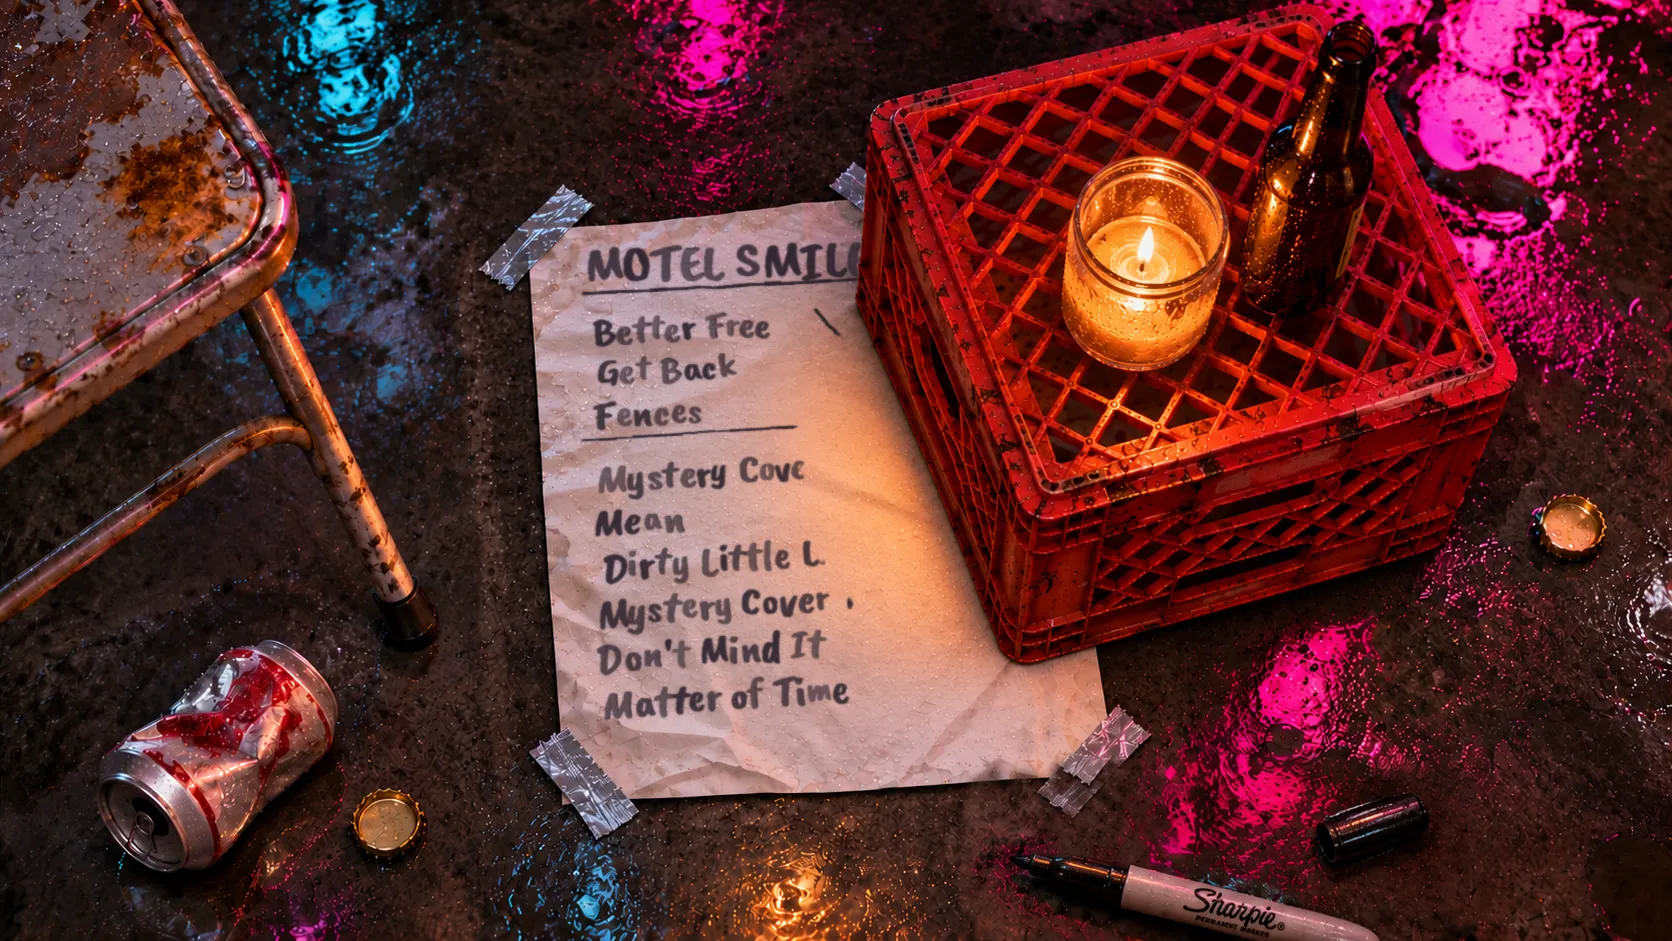
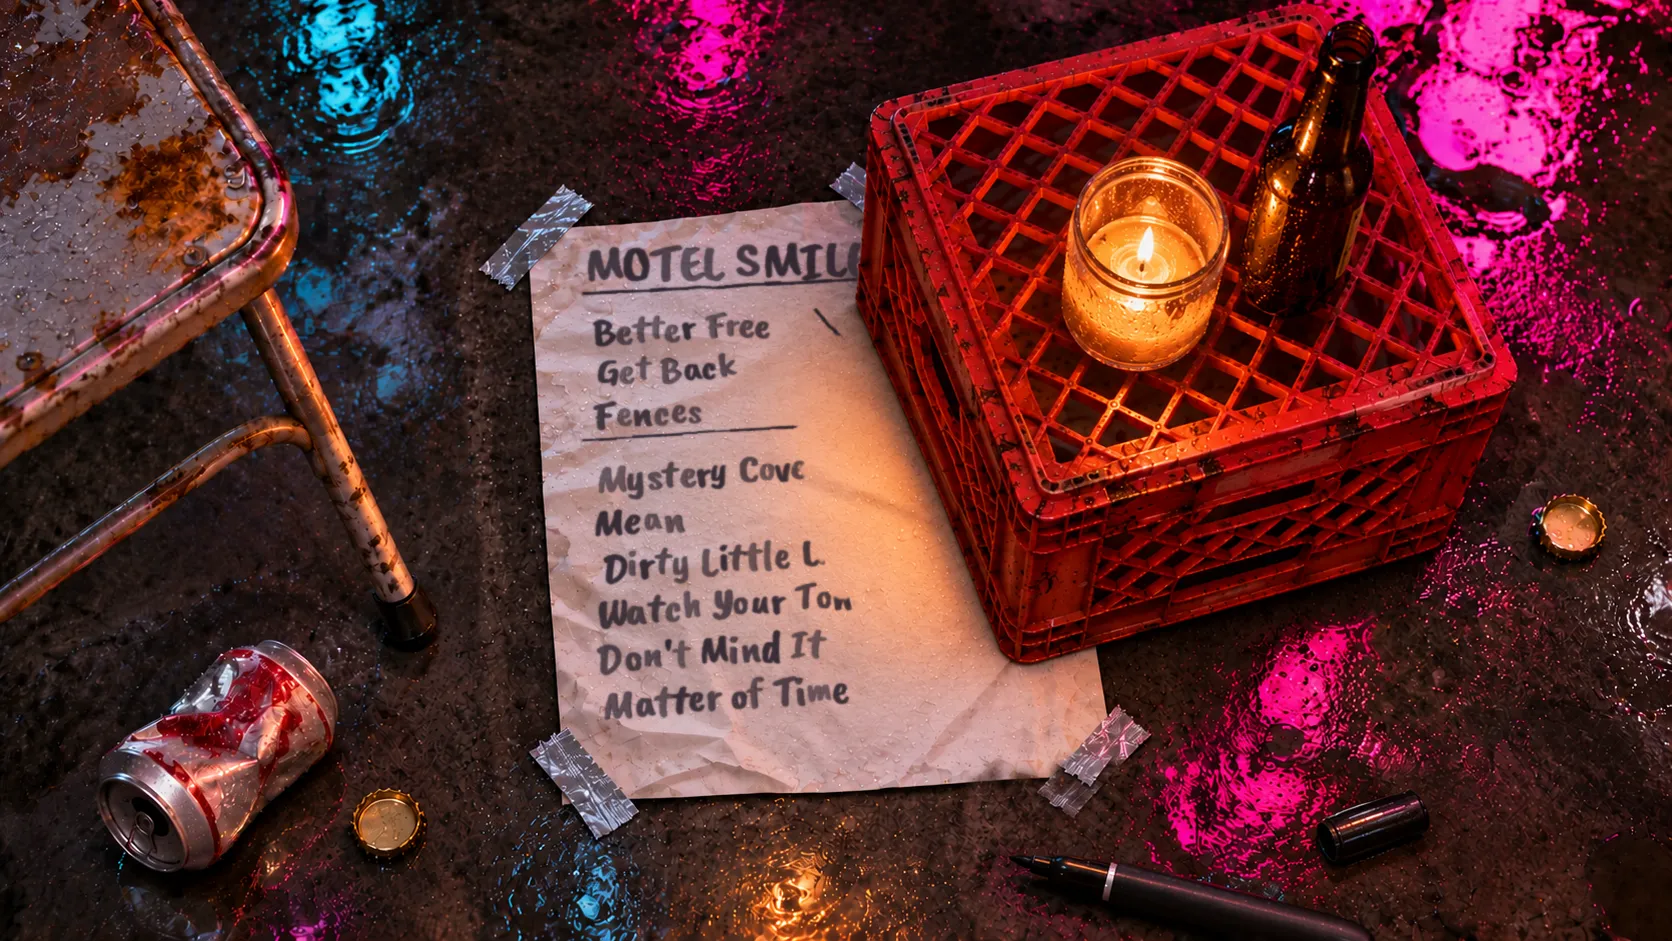
Setlist: Watch Your Tone, unbranded marker; Mystery Cover Tune opens the Request Line fan vote (/api/covers)
Claude-Session: https://claude.ai/code/session_011gssdMsenVXumrh9a32rRB

Changed region(s): [[0.5909, 0.8013, 0.8397, 1.0], [0.3421, 0.6164, 0.5287, 0.678]]

diff --git a/index.html b/index.html
@@ -4532,6 +4532,27 @@ body.ph .sign{font-size:clamp(32px,10vw,46px)!important;margin-top:2px!important
 #sl.s2 .sl-f.f2,#sl.s3 .sl-f.f3,#sl.s3 .sl-f.f2{opacity:1!important}
 #play .sl-curl{position:absolute;left:478px;top:608px;width:148px;height:54px;background:url(img/hang/curl.webp?v=3) 0 0/100% 100%;pointer-events:none;opacity:0;animation:slCurl 7s ease-in-out infinite}
 @keyframes slCurl{0%,55%,100%{opacity:0}65%,85%{opacity:1}}
+#sl .sl-mct{position:absolute;z-index:3;border:0;padding:0;background:transparent;cursor:pointer;border-radius:10px;pointer-events:none;opacity:0;transition:opacity .4s}
+#sl.s3 .sl-mct{pointer-events:auto;opacity:1;animation:mctGlow 2.4s ease-in-out 1s infinite}
+@keyframes mctGlow{0%,100%{box-shadow:0 0 0 0 rgba(70,220,255,0)}50%{box-shadow:0 0 0 2px rgba(70,220,255,.55),0 0 22px rgba(70,220,255,.45)}}
+#sl .sl-mct:hover,#sl .sl-mct:focus-visible{outline:none;box-shadow:0 0 0 2px #46dcff,0 0 26px rgba(70,220,255,.7)}
+#rq{position:absolute;inset:0;z-index:5;display:grid;place-items:center;background:rgba(5,3,10,.72);opacity:0;pointer-events:none;transition:opacity .3s;padding:16px}
+#rq.on{opacity:1;pointer-events:auto}
+#rq .rq-box{width:min(460px,100%);max-height:calc(100% - 20px);overflow:auto;background:linear-gradient(#17101f,#0d0913);border:2px solid #ff3d7f;border-radius:18px;box-shadow:0 0 30px rgba(255,61,127,.45),inset 0 0 18px rgba(255,61,127,.18);padding:18px 18px 16px;color:#fff;transform:translateY(12px) scale(.97);transition:transform .35s}
+#rq.on .rq-box{transform:none}
+#rq h3{margin:0;font:400 30px/1 var(--tube,cursive);color:#fff;text-shadow:0 0 8px #ff3d7f,0 0 18px #ff3d7f;letter-spacing:.02em}
+#rq .rq-sub{margin:6px 0 14px;font:500 12px var(--mono,monospace);letter-spacing:.08em;text-transform:uppercase;color:#46dcff}
+#rq ul{list-style:none;margin:0;padding:0;display:grid;gap:7px}
+#rq li button{position:relative;width:100%;display:flex;align-items:baseline;gap:8px;text-align:left;padding:10px 12px;border-radius:11px;border:1px solid #3a2c44;background:#140e1b;color:#fff;cursor:pointer;overflow:hidden;font:600 15px var(--sans,system-ui)}
+#rq li button i{font-style:normal;font-weight:400;color:#a99bb5;font-size:12.5px;flex:1}
+#rq li button b{font:600 12px var(--mono,monospace);color:#ffb3cf;min-width:2.5em;text-align:right;position:relative}
+#rq li button span{position:relative}
+#rq li button::before{content:"";position:absolute;left:0;top:0;bottom:0;width:var(--p,0%);background:linear-gradient(90deg,rgba(255,61,127,.38),rgba(255,61,127,.12));transition:width .8s cubic-bezier(.2,.7,.2,1)}
+#rq li button.mine{border-color:#46dcff;box-shadow:0 0 12px rgba(70,220,255,.4)}
+#rq li button:disabled{cursor:default}
+#rq li button:not(:disabled):hover{border-color:#ff3d7f}
+#rq .rq-note{min-height:1.3em;margin:12px 0 2px;font:500 13px var(--sans,system-ui);color:#ffd27a;text-align:center}
+#rq .rq-x{position:absolute;top:calc(14px + env(safe-area-inset-top,0px));right:16px;padding:9px 16px;border-radius:999px;border:2px solid var(--cyan,#46dcff);background:rgba(10,6,16,.7);color:#fff;font:600 14px var(--sans,system-ui);cursor:pointer}
 #sl .sl-shade{position:absolute;inset:0;background:radial-gradient(ellipse 70% 70% at 49% 50%,transparent 45%,rgba(4,2,8,.75));pointer-events:none}
 #sl .sl-x{position:absolute;left:16px;top:calc(14px + env(safe-area-inset-top,0px));z-index:2;padding:9px 16px;border-radius:999px;border:2px solid var(--cyan,#46dcff);background:rgba(10,6,16,.7);color:#fff;font:600 14px var(--sans,system-ui);cursor:pointer;box-shadow:0 0 14px rgba(70,220,255,.45)}
 #sl .sl-hint{position:absolute;left:50%;bottom:calc(22px + env(safe-area-inset-bottom,0px));transform:translateX(-50%);z-index:2;color:#fff;font:500 13px var(--mono,monospace);letter-spacing:.08em;opacity:0;transition:opacity .5s .4s;text-shadow:0 1px 6px #000;white-space:nowrap}
@@ -4540,10 +4561,11 @@ body.ph .sign{font-size:clamp(32px,10vw,46px)!important;margin-top:2px!important
 @media (prefers-reduced-motion:reduce){#sl .sl-wrap,#sl .sl-f{transition:none}#play .sl-curl{animation:none}}
 </style>
 <div id="sl" aria-hidden="true" role="dialog" aria-label="The setlist under the crate">
-  <div class="sl-wrap"><img class="sl-f f1" alt="" data-src="img/hang/sl1.webp?v=4" width="1672" height="941"><img class="sl-f f2" alt="" data-src="img/hang/sl2.webp?v=4" width="1672" height="941"><img class="sl-f f3 sl-bg" alt="Tonight's setlist, gaffer-taped to the roof: the Big 3 (Better Free, Get Back, Fences), then Mystery Cover Tune, Mean, Dirty Little Liar, Mystery Cover Tune, Don't Mind It, Matter of Time" data-src="img/hang/sl3.webp?v=4" width="1672" height="941"></div>
+  <div class="sl-wrap"><img class="sl-f f1" alt="" data-src="img/hang/sl1.webp?v=5" width="1672" height="941"><img class="sl-f f2" alt="" data-src="img/hang/sl2.webp?v=5" width="1672" height="941"><img class="sl-f f3 sl-bg" alt="Tonight's setlist, gaffer-taped to the roof: the Big 3 (Better Free, Get Back, Fences), then Mystery Cover Tune, Mean, Dirty Little Liar, Watch Your Tone, Don't Mind It, Matter of Time" data-src="img/hang/sl3.webp?v=5" width="1672" height="941"><button class="sl-mct" type="button" style="left:35.2%;top:45.6%;width:21.8%;height:6.2%" aria-label="Mystery Cover Tune: open the request line"></button></div>
   <div class="sl-shade"></div>
   <button class="sl-x" type="button">✕ Back to the roof</button>
-  <div class="sl-hint">Tonight’s setlist</div>
+  <div class="sl-hint">Tap the Mystery Cover Tune</div>
+  <div id="rq" role="dialog" aria-modal="true" aria-label="Request line" aria-hidden="true"><button class="rq-x" type="button">✕ Back to the setlist</button><div class="rq-box"><h3>Request Line</h3><p class="rq-sub">You pick the Mystery Cover Tune</p><ul id="rq-list"></ul><p class="rq-note" id="rq-note" role="status"></p></div></div>
 </div>
 <script>
 /* Band hangout: tap the milk crate, push in, the crate lifts off the taped setlist */
@@ -4616,6 +4638,36 @@ body.walking #play .bm{transition:none}
     walk(el,()=>{ el.dataset.walked="1"; el.click(); });
   },true);
   window.MSWalk=walk;
+})();
+</script>
+
+<script>
+/* Request line: the Mystery Cover Tune on the setlist opens a fan vote (/api/covers, one vote per visitor per day) */
+(()=>{ const $=id=>document.getElementById(id), rq=$("rq"), sl=$("sl"); if(!rq||!sl) return;
+  const list=$("rq-list"), note=$("rq-note"); let S=[], mine=null, busy=false;
+  const LK="ms-cover-vote";
+  const local=()=>{ try{ const v=JSON.parse(localStorage.getItem(LK)||"null"); return v&&v.d===new Date().toISOString().slice(0,10)?v.k:null; }catch(e){ return null; } };
+  function draw(){ const tot=S.reduce((a,s)=>a+(s.n|0),0)||0, max=Math.max(1,...S.map(s=>s.n|0));
+    list.innerHTML=S.map(s=>`<li><button type="button" data-k="${s.k}" class="${s.k===mine?"mine":""}" ${mine?"disabled":""} style="--p:${mine?Math.round((s.n|0)/max*100):0}%"><span>${s.t}</span><i>${s.a}</i>${mine?`<b>${s.n|0}</b>`:""}</button></li>`).join("");
+    note.textContent=mine?(`Your request is in${tot?` · ${tot} request${tot===1?"":"s"} so far`:""}.`):"Tap the song you want to hear."; }
+  async function load(){ note.textContent="Ringing the request line…"; mine=local();
+    try{ const r=await fetch("/api/covers",{cache:"no-store"}); const d=await r.json(); S=d.songs||[]; if(d.mine) mine=d.mine; }
+    catch(e){ try{ const c=await (await fetch("content.json")).json(); S=(c.covers||[]).map(x=>({k:x.k,t:x.t,a:x.a||"",n:0})); }catch(_){ S=[]; } }
+    if(!S.length){ note.textContent="The request line is down. Try later."; list.innerHTML=""; return; } draw(); }
+  async function vote(k){ if(busy||mine) return; busy=true; note.textContent="Sending it to the band…";
+    try{ const r=await fetch("/api/covers",{method:"POST",headers:{"content-type":"application/json"},body:JSON.stringify({k})}); const d=await r.json();
+      if(d.songs) S=d.songs; if(d.mine) mine=d.mine; else if(d.ok) mine=k;
+      if(!d.ok&&!d.mine){ note.textContent=d.error||"Couldn't send it. Try again."; busy=false; return; } }
+    catch(e){ mine=k; const s=S.find(x=>x.k===k); if(s) s.n=(s.n|0)+1; }
+    try{ localStorage.setItem(LK,JSON.stringify({k:mine,d:new Date().toISOString().slice(0,10)})); }catch(e){}
+    busy=false; draw(); }
+  const open=e=>{ e&&e.preventDefault(); e&&e.stopPropagation(); rq.classList.add("on"); rq.setAttribute("aria-hidden","false"); load(); setTimeout(()=>rq.querySelector(".rq-x").focus({preventScroll:true}),50); };
+  const close=e=>{ e&&e.preventDefault(); e&&e.stopPropagation(); rq.classList.remove("on"); rq.setAttribute("aria-hidden","true"); };
+  sl.querySelectorAll(".sl-mct").forEach(b=>b.addEventListener("click",open));
+  rq.querySelector(".rq-x").addEventListener("click",close);
+  rq.addEventListener("click",e=>{ const b=e.target.closest("button[data-k]"); if(b){ e.stopPropagation(); vote(b.dataset.k); return; } if(e.target===rq) close(e); else e.stopPropagation(); });
+  addEventListener("keydown",e=>{ if(e.key==="Escape"&&rq.classList.contains("on")){ e.stopImmediatePropagation(); close(e); } },true);
+  sl.querySelector(".sl-x").addEventListener("click",()=>close(),true);
 })();
 </script>
 

diff --git a/functions/api/covers.js b/functions/api/covers.js
@@ -1,0 +1,29 @@
+// Request line: fans vote on the next Mystery Cover Tune.
+// GET -> {ok, songs:[{k,t,a,n}], mine}   POST {k,hp} -> one vote per visitor per day
+const J=(o,s=200,c="no-store")=>new Response(JSON.stringify(o),{status:s,headers:{"content-type":"application/json","cache-control":c}});
+const DEF=[["brightside","Mr. Brightside","The Killers"],["song2","Song 2","Blur"],["sevennation","Seven Nation Army","The White Stripes"],["lastnite","Last Nite","The Strokes"],["basketcase","Basket Case","Green Day"],["everlong","Everlong","Foo Fighters"],["takemeout","Take Me Out","Franz Ferdinand"],["usesomebody","Use Somebody","Kings of Leon"]];
+const sha=async t=>[...new Uint8Array(await crypto.subtle.digest("SHA-256",new TextEncoder().encode(t)))].slice(0,10).map(b=>b.toString(16).padStart(2,"0")).join("");
+async function songs(request){
+  try{ const r=await fetch(new URL("/content.json",request.url)); const c=await r.json(); const L=(c.covers||[]).filter(x=>x&&x.k&&x.t); if(L.length) return L.map(x=>[String(x.k),String(x.t),String(x.a||"")]); }catch(e){}
+  return DEF;
+}
+const tally=async env=>{ try{ return JSON.parse(await env.LIST.get("cov:tally")||"{}"); }catch(e){ return {}; } };
+const who=async request=>"cov:v:"+await sha((request.headers.get("cf-connecting-ip")||"x")+"|"+new Date().toISOString().slice(0,10));
+export async function onRequestGet({request,env}){
+  const S=await songs(request);
+  if(!env.LIST) return J({ok:true,offline:true,songs:S.map(([k,t,a])=>({k,t,a,n:0}))});
+  const T=await tally(env), mine=await env.LIST.get(await who(request));
+  return J({ok:true,songs:S.map(([k,t,a])=>({k,t,a,n:T[k]|0})),mine});
+}
+export async function onRequestPost({request,env}){
+  if(!env.LIST) return J({ok:false,error:"The request line is down. Try later."},503);
+  let d={}; try{ d=await request.json(); }catch(e){ return J({ok:false,error:"bad request"},400); }
+  if(d.hp) return J({ok:true});
+  const S=await songs(request), k=String(d.k||"");
+  if(!S.some(s=>s[0]===k)) return J({ok:false,error:"Pick one from the list."},400);
+  const w=await who(request), prev=await env.LIST.get(w);
+  if(prev) return J({ok:false,error:"One request per night. Come back tomorrow.",mine:prev},429);
+  await env.LIST.put(w,k,{expirationTtl:60*60*26});
+  const T=await tally(env); T[k]=(T[k]|0)+1; await env.LIST.put("cov:tally",JSON.stringify(T));
+  return J({ok:true,mine:k,songs:S.map(([kk,t,a])=>({k:kk,t,a,n:T[kk]|0}))});
+}
